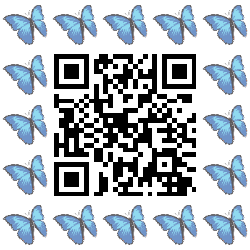
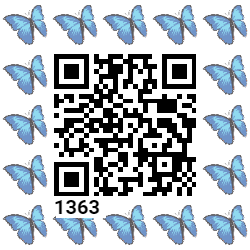
Add "Deployed By" and ID text

Changed region(s): [[0.196, 0.196, 0.784, 0.784], [0.224, 0.784, 0.42, 0.896]]

diff --git a/src/components/QRSkin.vue b/src/components/QRSkin.vue
@@ -90,11 +90,18 @@ export default {
                 var qr = await createImg(this.qrcode);
                 ctx.drawImage(
                     qr,
-                    { minizee: 54, rum: 258 }[template],
-                    { minizee: 54, rum: 8 }[template],
-                    { minizee: 142, rum: 234 }[template],
-                    { minizee: 142, rum: 234 }[template]
+                    { minizee: 54, rum: 258 + 24 }[template],
+                    { minizee: 54, rum: 32 }[template],
+                    { minizee: 142, rum: 234 - 48 }[template],
+                    { minizee: 142, rum: 234 - 48 }[template]
                 );
+                ctx.textAlign = 'left';
+                ctx.font = "bold 20px Roboto";
+                var size = ctx.measureText(`${(this.url||['sohcah', 1363])[1]}`);
+                ctx.fillStyle="white"
+                ctx.fillRect({ minizee: 54, rum: 258 + 24 }[template] + 2, { minizee: 54, rum: 32 }[template] + { minizee: 142, rum: 234 - 48 }[template]+2, size.width+4, 20)
+                ctx.fillStyle = "black";
+                ctx.fillText(`${(this.url||['sohcah', 1363])[1]}`, { minizee: 54, rum: 258 + 24 }[template], { minizee: 54, rum: 32 }[template] + { minizee: 142, rum: 234 - 48 }[template] + 18);
             } else {
                 if ((this.skin||1).toString().startsWith('custom:')) {
                     x = await lf.getItem((this.skin||1).toString());
@@ -143,6 +150,19 @@ export default {
                     x.QRSize,
                     x.QRSize
                 );
+                ctx.textAlign = 'left';
+                ctx.fillStyle = "black";
+                ctx.font = "30px Roboto";
+                ctx.fillText(`${(this.url||['sohcah', 1363])[1]}`, x.QROffsetX, x.QROffsetY + x.QRSize + 30);
+                if (x.DeployedBy) {
+                    ctx.font = `${x.DeployedBySize*1.5}px Roboto`;
+                    if (x.DeployedByCentered) {
+                        ctx.textAlign = 'center';
+                        ctx.fillText(`${(this.url||['sohcah', 1363])[0]}`, x.DeployedByX+(x.DeployedByWidth/2), x.DeployedByY-((x.DeployedBySize*1.5)/2));
+                    } else {
+                        ctx.fillText(`${(this.url||['sohcah', 1363])[0]}`, x.DeployedByX, x.DeployedByY);
+                    }
+                }
             }
             this.output = canvas.toDataURL();
         },
